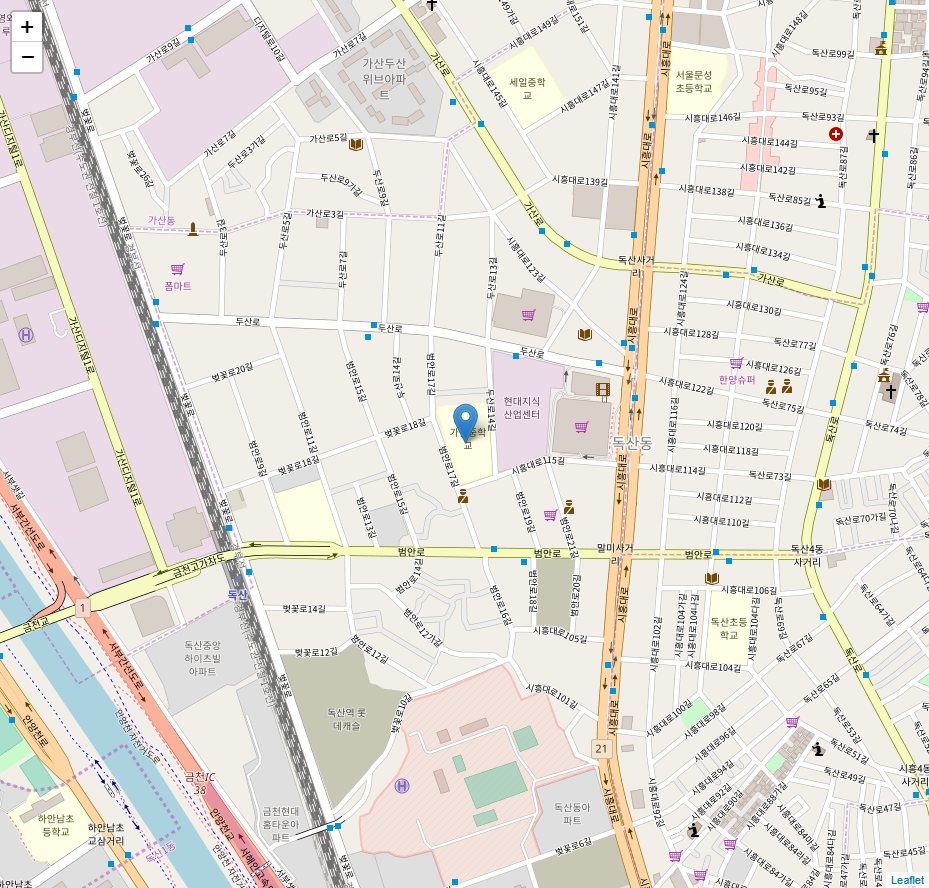
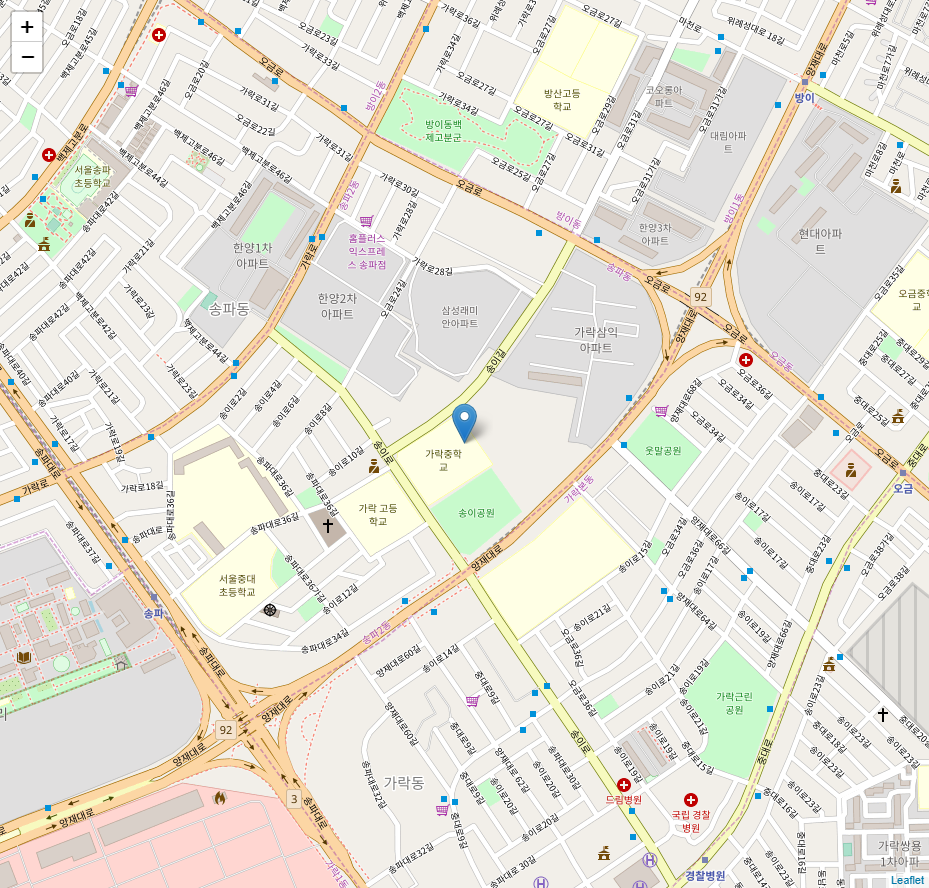
즐겨찾기수정

diff --git a/osm.html b/osm.html
@@ -17,7 +17,7 @@
     
     <meta name="viewport" content="width=device-width,
         initial-scale=1.0, maximum-scale=1.0, user-scalable=no" />
-    <style>#map_cb6530e9d5cb45f0b7cf65625dac5251 {
+    <style>#map_c3b18a77d903469c8a6d0977a8369473 {
         position: relative;
         width: 100.0%;
         height: 100.0%;
@@ -28,7 +28,7 @@
 </head>
 <body>    
     
-    <div class="folium-map" id="map_cb6530e9d5cb45f0b7cf65625dac5251" ></div>
+    <div class="folium-map" id="map_c3b18a77d903469c8a6d0977a8369473" ></div>
 </body>
 <script>    
     
@@ -36,9 +36,9 @@
         var bounds = null;
     
 
-    var map_cb6530e9d5cb45f0b7cf65625dac5251 = L.map(
-        'map_cb6530e9d5cb45f0b7cf65625dac5251', {
-        center: [37.468378, 126.894362],
+    var map_c3b18a77d903469c8a6d0977a8369473 = L.map(
+        'map_c3b18a77d903469c8a6d0977a8369473', {
+        center: [37.502477, 127.118731],
         zoom: 16,
         maxBounds: bounds,
         layers: [],
@@ -49,7 +49,7 @@
 
 
     
-    var tile_layer_60db8842a95742929da304d6dae8c36c = L.tileLayer(
+    var tile_layer_4dffdccb5e914f39851bb9a183b0c07d = L.tileLayer(
         'https://{s}.tile.openstreetmap.org/{z}/{x}/{y}.png',
         {
         "attribution": null,
@@ -61,26 +61,26 @@
         "opacity": 1,
         "subdomains": "abc",
         "tms": false
-}).addTo(map_cb6530e9d5cb45f0b7cf65625dac5251);
+}).addTo(map_c3b18a77d903469c8a6d0977a8369473);
     
-        var marker_899e4f55ca3542aa89f0366d0150b8e8 = L.marker(
-            [37.468378, 126.894362],
+        var marker_c1edc1b7c43341e0a514531559c410a7 = L.marker(
+            [37.502477, 127.118731],
             {
                 icon: new L.Icon.Default(),
                 }
-            ).addTo(map_cb6530e9d5cb45f0b7cf65625dac5251);
+            ).addTo(map_c3b18a77d903469c8a6d0977a8369473);
         
     
-            var popup_58ea9d4432e34bcda45f33b7103503ed = L.popup({maxWidth: '100%'
+            var popup_d2bf206e95b44bd8a6841741409c45e9 = L.popup({maxWidth: '100%'
             
             });
 
             
-                var html_e68ce4a6bfc74239be0e1ff4ef465883 = $(`<div id="html_e68ce4a6bfc74239be0e1ff4ef465883" style="width: 100.0%; height: 100.0%;">Mt. Hood Meadows</div>`)[0];
-                popup_58ea9d4432e34bcda45f33b7103503ed.setContent(html_e68ce4a6bfc74239be0e1ff4ef465883);
+                var html_fbc084e6421343cf83de691a5003d0cc = $(`<div id="html_fbc084e6421343cf83de691a5003d0cc" style="width: 100.0%; height: 100.0%;">Mt. Hood Meadows</div>`)[0];
+                popup_d2bf206e95b44bd8a6841741409c45e9.setContent(html_fbc084e6421343cf83de691a5003d0cc);
             
 
-            marker_899e4f55ca3542aa89f0366d0150b8e8.bindPopup(popup_58ea9d4432e34bcda45f33b7103503ed)
+            marker_c1edc1b7c43341e0a514531559c410a7.bindPopup(popup_d2bf206e95b44bd8a6841741409c45e9)
             ;
 
             

diff --git a/tkFramework.py b/tkFramework.py
@@ -236,13 +236,13 @@ class framework:
 
     def FindBookMark(self):
         tmpFont = font.Font(self.window, size=10, weight='bold', family='Consolas')
-        photo = PhotoImage(file="bookmarkscreenshot.png")
+        self.photo = PhotoImage(file="bookmarkscreenshot.png")
 
         for i in self.mainFrame:
             i.destroy()
         self.mainFrame=[]
 
-        self.label=[Label(self.window,image=photo,width=450,height=350),
+        self.label=[Label(self.window,image=self.photo,width=450,height=350),
                     Label(self.window,text=self.address),
                     Label(self.window,justify="left",
                           text="(1) 튼튼한 탁자 아래에 들어가 몸을 보호합니다\n"
@@ -288,13 +288,13 @@ class framework:
         self.driver.get("file:///C:/Users/CHS\Desktop/조희석/전공/스크립트언어/Team Project/ScriptLanguage/osm.html")
         self.driver.save_screenshot("screenshot.png")
 
-        photo=PhotoImage(file="screenshot.png")
+        self.photo=PhotoImage(file="screenshot.png")
         self.driver.close()
         for i in self.mainFrame:
             i.destroy()
         self.mainFrame=[]
 
-        self.label=[Label(self.window,image=photo,width=450,height=350),
+        self.label=[Label(self.window,image=self.photo,width=450,height=350),
                     Label(self.window,text=self.address),
                     Label(self.window,justify="left",
                           text="(1) 튼튼한 탁자 아래에 들어가 몸을 보호합니다\n"
